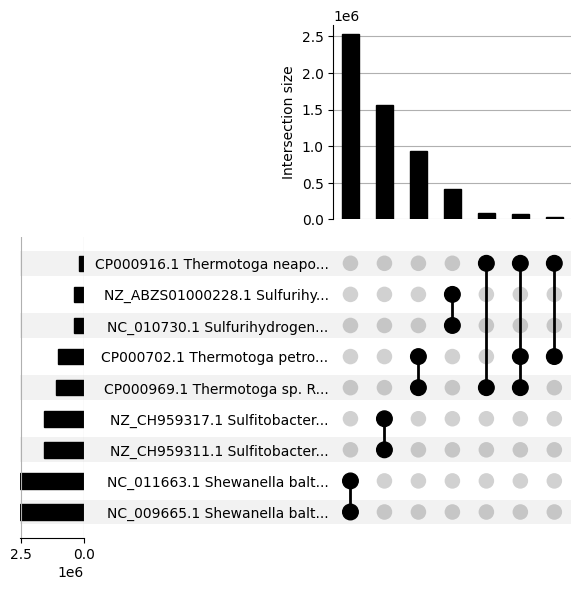
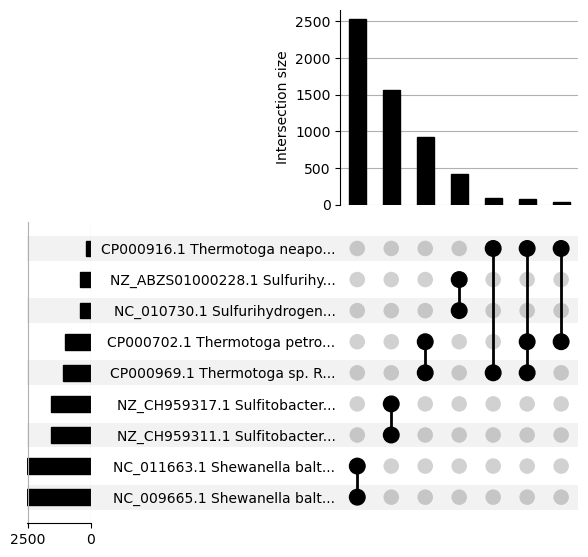
upd

diff --git a/src/sourmash_plugin_betterplot.py b/src/sourmash_plugin_betterplot.py
@@ -1009,6 +1009,61 @@ class Command_Clustermap1(CommandLinePlugin):
         notify(f"wrote plot to: {args.output_figure}")
 
 
+# https://docs.python.org/3/library/itertools.html
+def powerset(iterable, *, start=2):
+    "powerset([1,2,3]) → () (1,) (2,) (3,) (1,2) (1,3) (2,3) (1,2,3)"
+    s = list(iterable)
+    return chain.from_iterable(combinations(s, r) for r in range(start, len(s)+1))
+
+def isect_all_sigs(siglist, *, start=1):
+    get_name = lambda x: [ss.name for ss in x]
+    
+    # check: all names are distinct
+    assert len(set(get_name(siglist))) == len(siglist)
+
+    # make a powerset, all combinations
+    orig_pset = [ list(x) for x in powerset(siglist, start=start) ]
+    orig_names = [ get_name(x) for x in orig_pset ]
+
+    # sort most combinations to fewest
+    pset = sorted(orig_pset, key=lambda x: -len(x))
+
+    # walk through, calculating intersections and tracking them.
+    # no hash should appear in more than one set.
+    subtract_me = set()
+    isects = []
+    names_to_hashes = {}
+    for n, combo in enumerate(pset):
+        combo = list(combo)
+        combo_name = get_name(combo)
+        ss = combo.pop()
+        hashes = set(ss.minhash.hashes) - subtract_me
+
+        while combo and hashes:
+            ss = combo.pop()
+            hashes.intersection_update(ss.minhash.hashes)
+
+        # track hashes by combination name so we can re-order later.
+        names_to_hashes[tuple(combo_name)] = hashes
+        subtract_me.update(hashes)
+
+    # use leftover ss to get a minhash :)
+    blank_mh = ss.minhash.copy_and_clear()
+
+    # return list in order of original powerset;
+    # convert hashes to minhash objects
+    combos = []
+    names = []
+    for name in orig_names:
+        hashes = names_to_hashes[tuple(name)]
+        names.append(name)
+        mh = blank_mh.copy_and_clear().flatten()
+        mh.add_many(hashes)
+        combos.append(mh)
+
+    return names, combos
+
+
 class Command_Upset(CommandLinePlugin):
     command = "upset"  # 'scripts <command>'
     description = (
@@ -1071,13 +1126,7 @@ class Command_Upset(CommandLinePlugin):
     def main(self, args):       # not-weighted upset
         super().main(args)
 
-        # https://docs.python.org/3/library/itertools.html
-        def powerset(iterable, *, start=2):
-            "powerset([1,2,3]) → () (1,) (2,) (3,) (1,2) (1,3) (2,3) (1,2,3)"
-            s = list(iterable)
-            return chain.from_iterable(
-                combinations(s, r) for r in range(start, len(s) + 1)
-            )
+        keep_zero = args.keep_zero
 
         select_mh = sourmash_utils.create_minhash_from_args(args)
         print(f"selecting sketches: {select_mh}")
@@ -1124,22 +1173,10 @@ class Command_Upset(CommandLinePlugin):
                 f"Omitting individual sketch membership; use --show-singletons to see."
             )
 
-        orig_pset = list(powerset(siglist, start=start))
-        pset = sorted(orig_pset, key=lambda x: -len(x))
-        # get_name = lambda x: [ ss.name.split(' ')[0] for ss in x ]
-        truncate_at = args.truncate_labels_at
-        truncate_name = lambda x: (
-            x[: truncate_at - 3] + "..." if len(x) >= truncate_at else x
-        )
-        get_name = lambda x: [truncate_name(ss.name) for ss in x]
-        names = [get_name(combo) for combo in pset]
-        orig_names = [get_name(combo) for combo in orig_pset]
-
-        notify(f"powerset of distinct combinations: {len(pset)}")
-
         # CTB: maybe turn the intersection code below into a class?
 
         if args.load_intersections_from_file:
+            assert 0
             notify(f"loading intersections from '{args.load_intersections_from_file}'")
             with open(args.load_intersections_from_file, "rb") as fp:
                 check_names, nonzero_names, counts = pickle.load(fp)
@@ -1153,32 +1190,11 @@ class Command_Upset(CommandLinePlugin):
             # all intersections, starting with the smallest and then
             # subtracting the union of all previous from each.
             notify(f"generating intersections...")
-            counts = []
-            nonzero_names = []
-            subtract_me = set()
-            for n, combo in enumerate(pset):
-                if n and n % 10 == 0:
-                    notify(f"...{n} of {len(pset)}", end="\r")
-
-                combo = list(combo)
-                ss = combo.pop()
-                hashes = set(ss.minhash.hashes) - subtract_me
-
-                while combo and hashes:
-                    ss = combo.pop()
-                    hashes.intersection_update(ss.minhash.hashes)
-
-                if hashes or keep_zero:
-                    counts.append(len(hashes) * scaled)
-                    nonzero_names.append(names[n])
-                    subtract_me.update(hashes)
+            names, combos = isect_all_sigs(siglist, start=start)
+            counts = [ len(c) for c in combos ]
             notify(
-                f"\n...done! {len(nonzero_names)} intersections of {len(names)} total."
+                f"\n...done! {len(names)} intersections of {len(names)} total."
             )
-
-            # maybe decrease memory, but also prevent re/mis-use of these :)
-            del subtract_me
-            del hashes
 
             if args.save_intersections_to_file:
                 notify(f"saving intersections to '{args.save_intersections_to_file}'")
@@ -1208,24 +1224,20 @@ class Command_Upset(CommandLinePlugin):
 
         ## now! calculate actual data for upsetplot...
 
-        sort_upset_by=args.sort_by
-        if args.sort_by == 'input': # @CTB
-            assert 0
-            # rearrange using 'orig_names'
-            counts_by_name = {}
-            for name, cnt in zip(nonzero_names, counts):
-                counts_by_name[tuple(name)] = cnt
+        truncate_at = args.truncate_labels_at
+        truncate_name = lambda x: (
+            x[: truncate_at - 3] + "..." if len(x) >= truncate_at else x
+        )
+        truncate_names = lambda xx: [ truncate_name(x) for x in xx ]
 
-            names = []
-            counts = []
-            for name in orig_names:
-                name = tuple(name)
-                if name in counts_by_name:
-                    names.append(name)
-                    counts.append(count_by_name[name])
-            nonzero_names = names
+        names2 = []
+        counts2 = []
+        for name, count in zip(names, counts):
+            if count > 0 or keep_zero:
+                names2.append(truncate_names(name))
+                counts2.append(count)
 
-        data = upsetplot.from_memberships(nonzero_names, counts)
+        data = upsetplot.from_memberships(names2, counts2)
 
         try:
             min_subset_size = float(args.min_subset_size)
@@ -1237,7 +1249,7 @@ class Command_Upset(CommandLinePlugin):
         print(data)
         upsetplot.plot(
             data,
-            sort_by=sort_upset_by,
+            sort_by=args.sort_by,
             min_subset_size=min_subset_size,
             show_percentages=args.show_percentages,
         )
@@ -1363,16 +1375,9 @@ class Command_WeightedUpset(CommandLinePlugin):
         else:
             start = 1
 
-        orig_pset = list(powerset(siglist, start=start))
-        pset = sorted(orig_pset, key=lambda x: -len(x))
-        #get_name = lambda x: [ ss.name.split(' ')[0] for ss in x ]
         truncate_at = args.truncate_labels_at
         truncate_name = lambda x: x[:truncate_at-3] + '...' if len(x) >= truncate_at else x
         get_name = lambda x: [ truncate_name(ss.name) for ss in x ]
-        orig_names = [get_name(combo) for combo in orig_pset]
-        names = [ get_name(combo) for combo in pset ]
-
-        notify(f"powerset of distinct combinations: {len(pset)}")
 
         # CTB: maybe turn the intersection code below into a class?
 
@@ -1387,41 +1392,11 @@ class Command_WeightedUpset(CommandLinePlugin):
                 sys.exit(-1)
         else:
             notify(f"generating weighted intersections...")
-            counts = []
-            nonzero_names = []
-            subtract_me = set()
-            abunds = main_mh.hashes
-            main_hashes = set(abunds)
-            for n, combo in enumerate(pset):
-                if n and n % 10 == 0:
-                    notify(f"...{n} of {len(pset)}", end="\r")
+            names, combos = isect_all_sigs(siglist)
+            counts = [ mh.inflate(main_mh).sum_abundances for mh in combos ]
 
-                combo = list(combo)
-                ss = combo.pop()
-                hashes = set(ss.minhash.hashes) - subtract_me
-
-                # do this just in case there are a small number of
-                # novel hashes, e.g. sometimes assembly creates new
-                # k-mers.
-                hashes.intersection_update(main_hashes)
-
-                while combo and hashes:
-                    ss = combo.pop()
-                    hashes.intersection_update(ss.minhash.hashes)
-
-                if len(hashes) >= args.threshold_hashes or keep_zero:
-                    if len(hashes) > 0 or keep_zero:
-                        weighted_count = sum([ abunds[h] for h in hashes ])
-                        counts.append(weighted_count * scaled)
-                        nonzero_names.append(names[n])
-                    
-                subtract_me.update(hashes)
-            notify(f"\n...done! {len(nonzero_names)} non-empty intersections of {len(names)} total.")
-
-            # maybe decrease memory, but also prevent re/mis-use of these :)
-            del subtract_me
-            del hashes
-#            del names
+            # @CTB
+            notify(f"\n...done! {len(names)} non-empty intersections of {len(names)} total.")
 
             if args.save_intersections_to_file:
                 notify(f"saving intersections to '{args.save_intersections_to_file}'")
@@ -1451,23 +1426,20 @@ class Command_WeightedUpset(CommandLinePlugin):
 
         ## now! calculate actual data for weighted upsetplot...
 
-        sort_upset_by=args.sort_by
-        if args.sort_by in ('-input', 'input'):
-            # rearrange using 'orig_names'
-            counts_by_name = {}
-            for name, cnt in zip(nonzero_names, counts):
-                counts_by_name[tuple(name)] = cnt
+        truncate_at = args.truncate_labels_at
+        truncate_name = lambda x: (
+            x[: truncate_at - 3] + "..." if len(x) >= truncate_at else x
+        )
+        truncate_names = lambda xx: [ truncate_name(x) for x in xx ]
 
-            names = []
-            counts = []
-            for name in orig_names:
-                name = tuple(name)
-                if name in counts_by_name:
-                    names.append(name)
-                    counts.append(counts_by_name[name])
-            nonzero_names = names
+        names2 = []
+        counts2 = []
+        for name, count in zip(names, counts):
+            if count > 0 or keep_zero:
+                names2.append(truncate_names(name))
+                counts2.append(count)
 
-        data = upsetplot.from_memberships(nonzero_names, counts)
+        data = upsetplot.from_memberships(names2, counts2)
 
         try:
             min_subset_size = float(args.min_subset_size)
